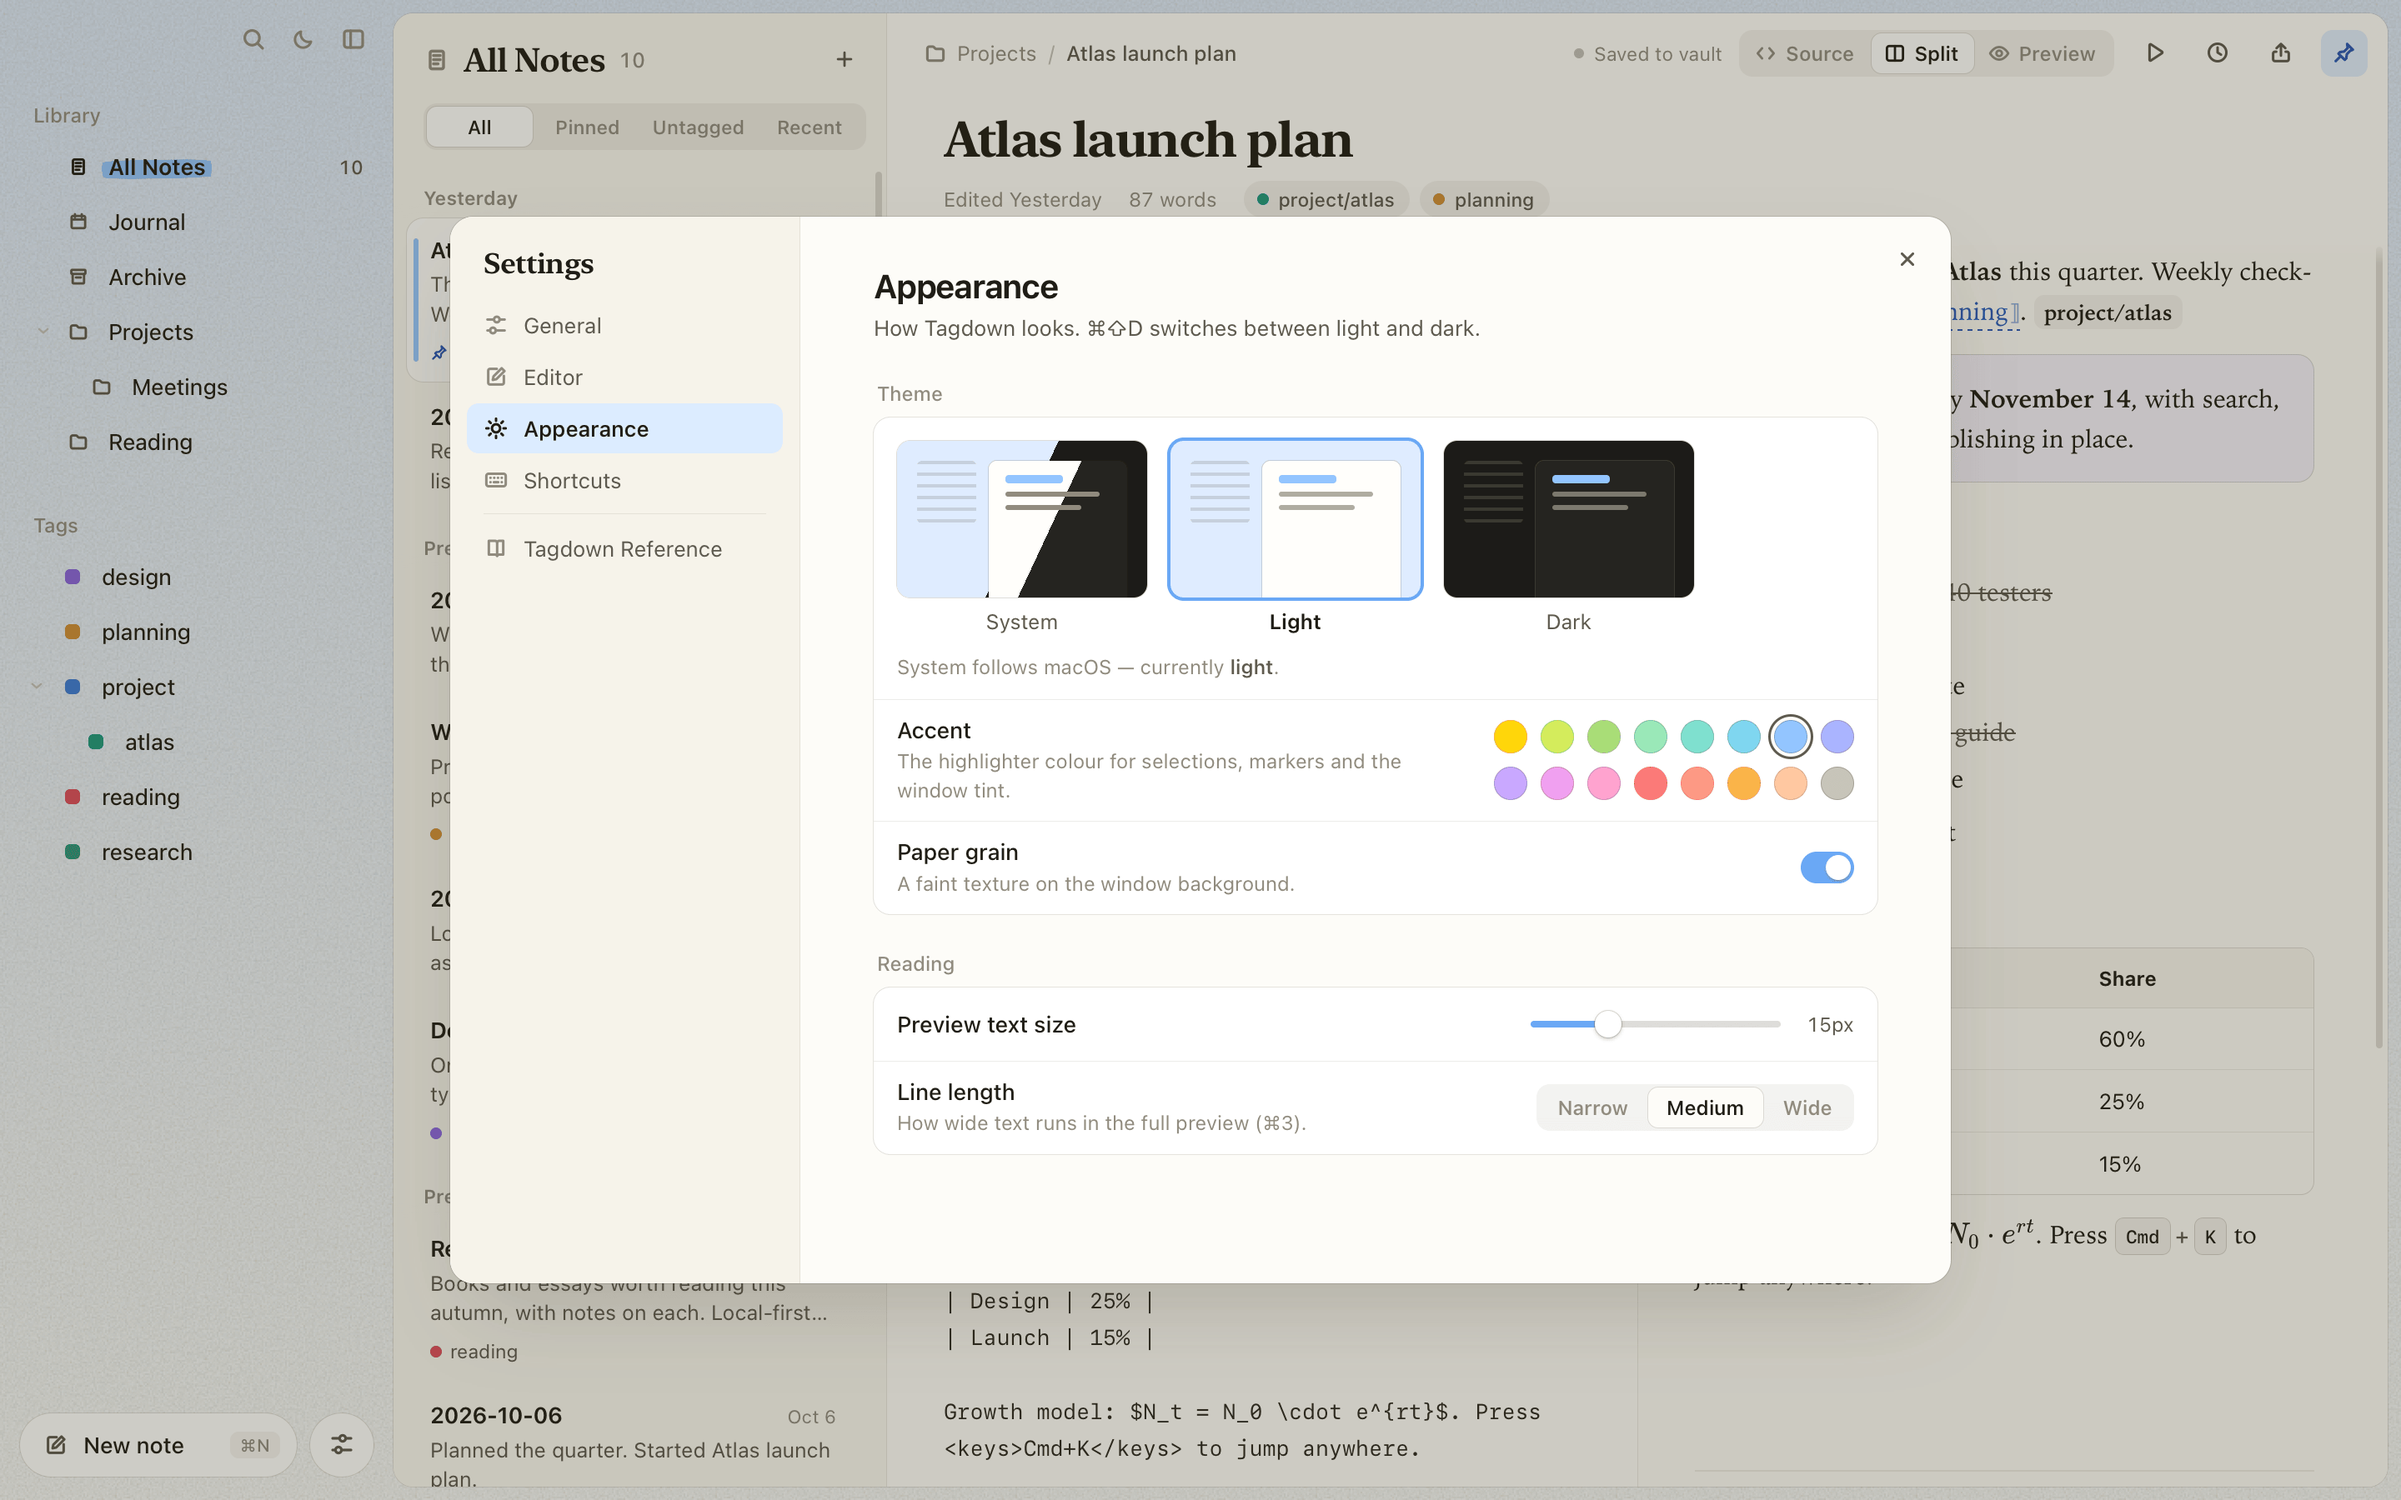
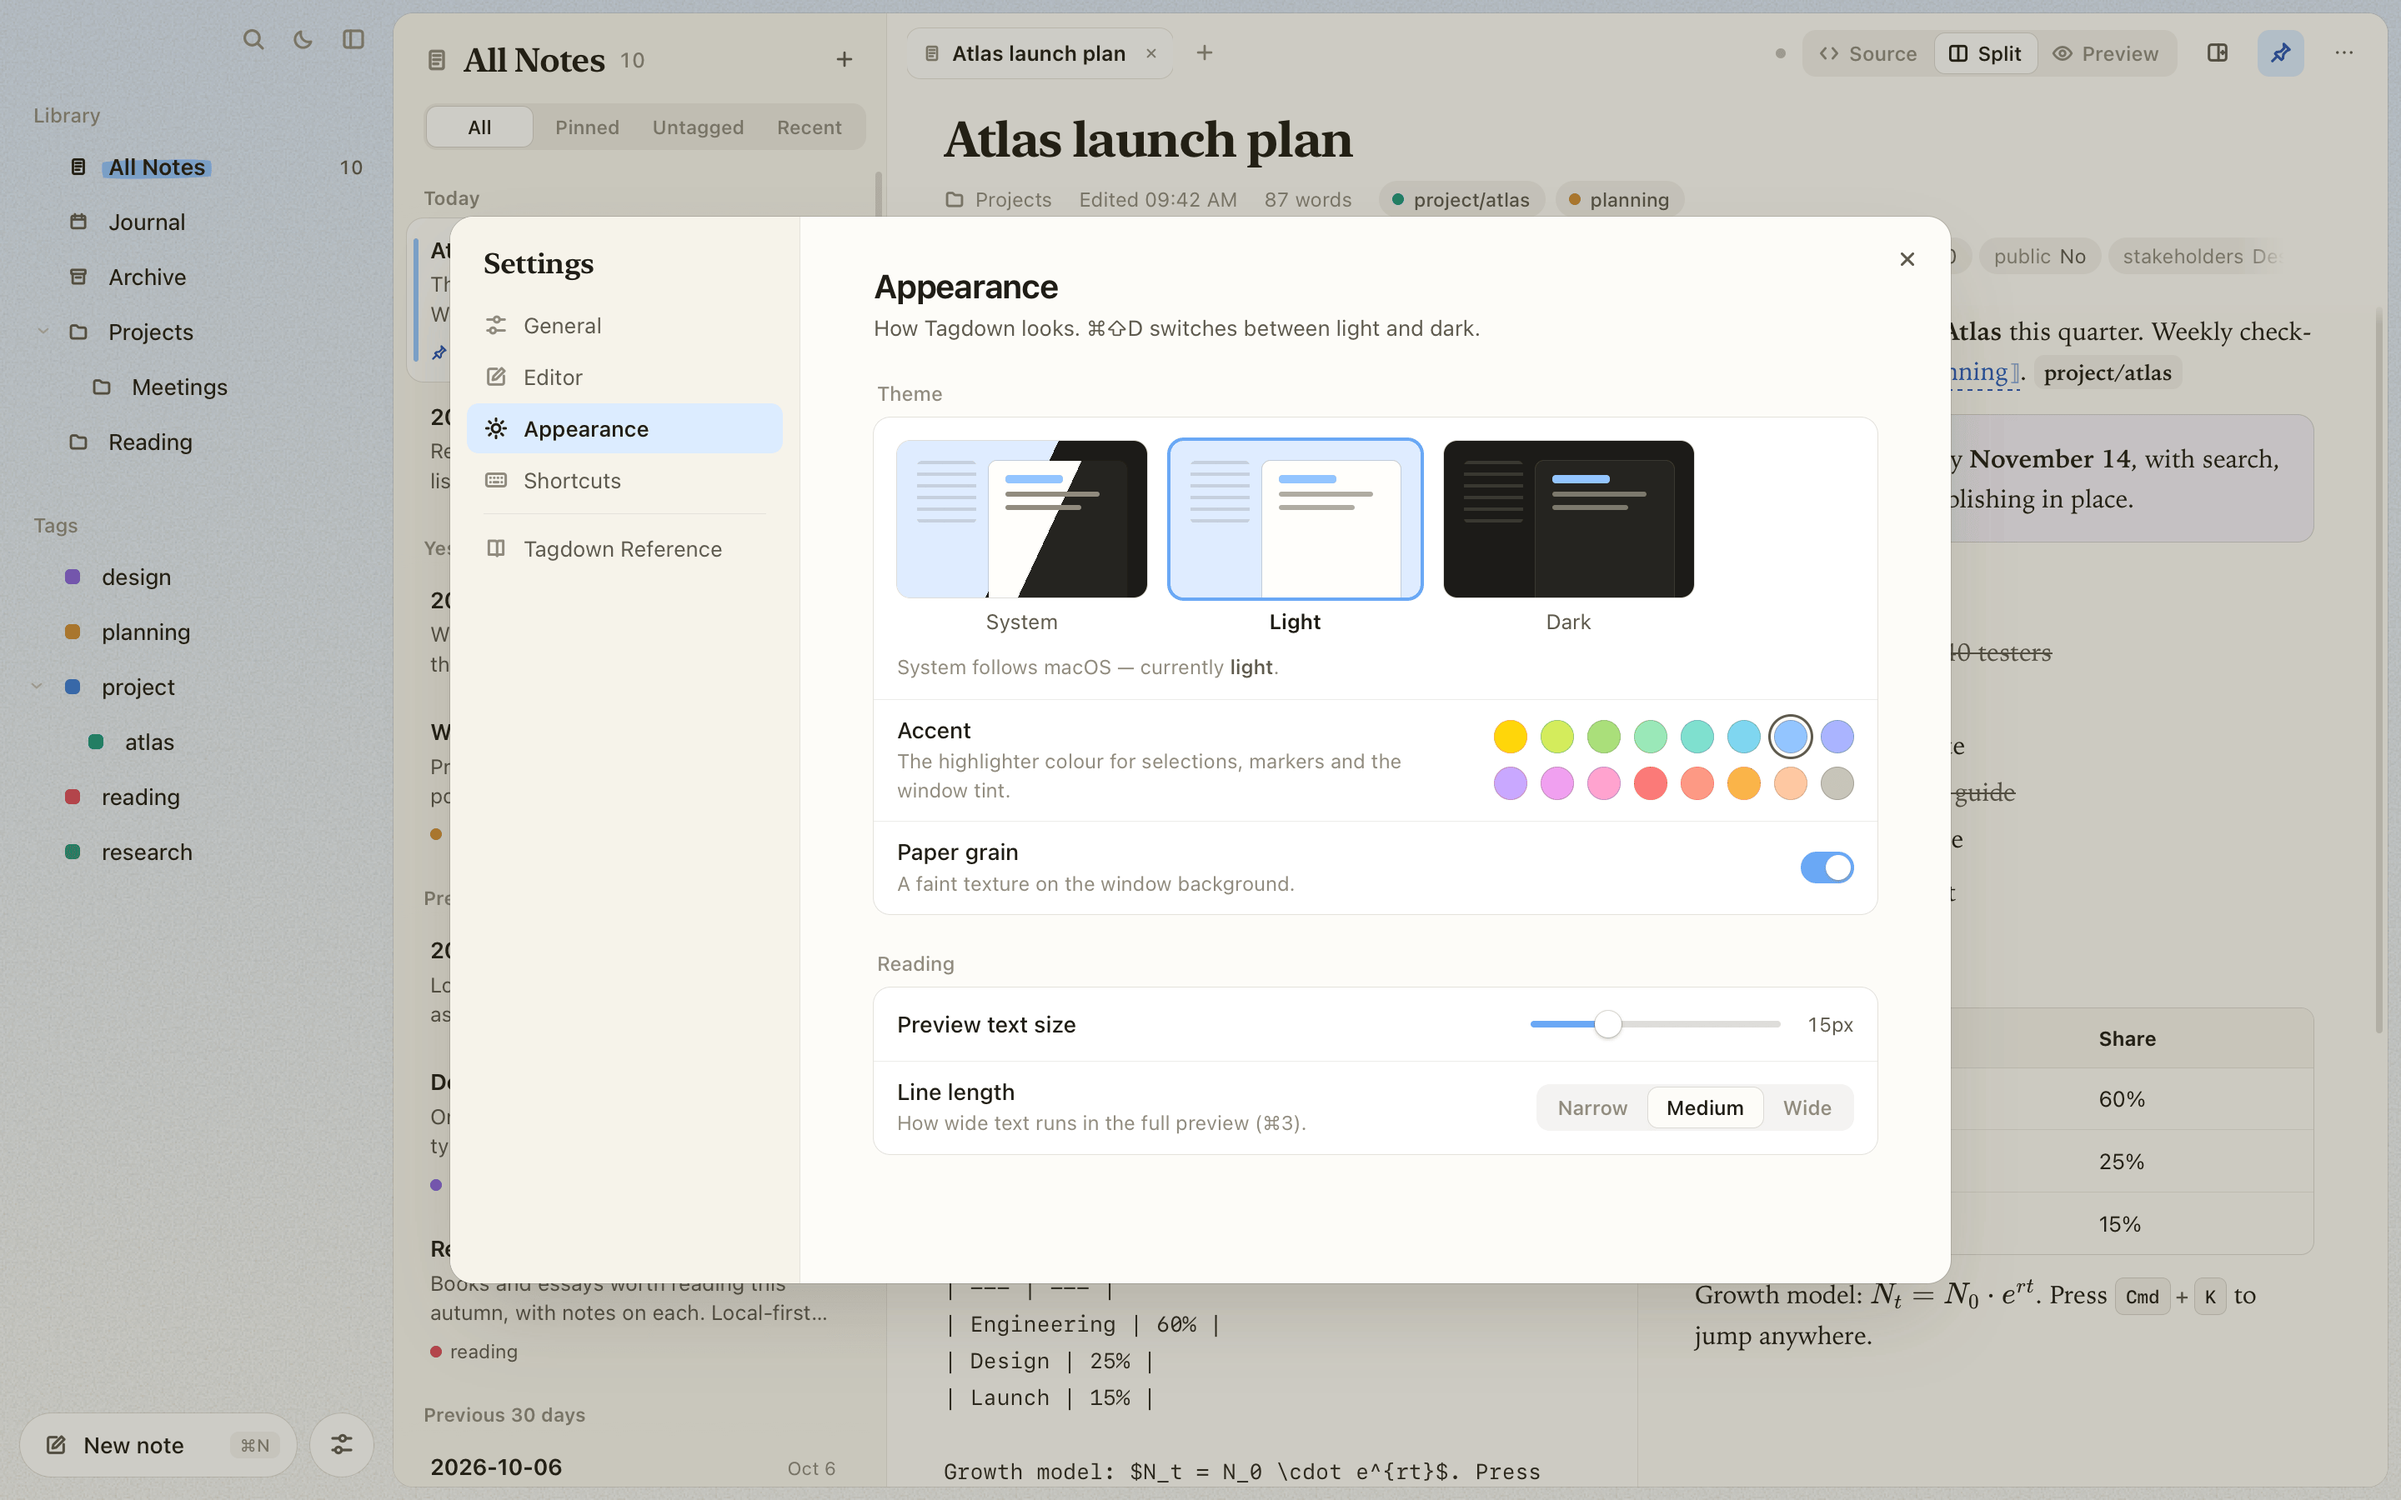
docs: tabs, panes and properties, with fresh screenshots
- New light/dark shots of two panes side by side and of the properties
  panel; the editor, journal, settings and appearance shots are retaken
  with the tab bar.
- README and Writing notes cover tabs, panes, folding and hiding
  properties, and the new launch and editor settings.
- The top bar gives tabs room first: below 1000px slides and history move
  to the ⋯ menu and the save status keeps only its dot.
- The window title no longer follows a pane drawn in the background.

diff --git a/src/main.ts b/src/main.ts
@@ -902,6 +902,8 @@ async function displayTab(pane: Pane, fresh?: Note) {
   }
   if (!panes.includes(pane) || pane.tabs[pane.active] !== tab) return;
   if (!note) Object.assign(tab, blankTab());
+  // Inside withPane the swapped-in pane is always the "active" one; ask before.
+  const isActive = pane === activePane;
   withPane(pane, () => {
     selectedNote = note;
     content = text;
@@ -910,7 +912,7 @@ async function displayTab(pane: Pane, fresh?: Note) {
       tab.title = tabTitleOf(note);
       if (!linkSyncs.has(note.id)) linkTitles.set(note.id, note.title);
     }
-    if (pane === activePane) {
+    if (isActive) {
       setDocumentTitle(note ? note.title || 'Untitled' : 'Tagdown Editor');
       if (note) setPreference('lastNoteId', note.id);
     }
@@ -918,7 +920,7 @@ async function displayTab(pane: Pane, fresh?: Note) {
     restoreScroll(pane, tab);
     if (note) void loadBacklinks(note.id);
   });
-  if (pane === activePane) renderNotes();
+  if (isActive) renderNotes();
   saveWorkspace();
 }
 
@@ -3210,12 +3212,13 @@ async function flushSave() {
     });
   }
   if (panes.includes(pane)) {
+    const isActive = pane === activePane;
     withPane(pane, () => {
       if (selectedNote?.id !== id) return;
       selectedNote = saved;
       // More typing since this save started: that save is still to come.
       if (saveTimer === undefined) savedMessage = 'Saved';
-      if (pane === activePane) setDocumentTitle(saved.title || 'Untitled');
+      if (isActive) setDocumentTitle(saved.title || 'Untitled');
       // Journal pages are headed by their day, whatever their title says.
       if (!saved.journal) {
         const titleText = saved.title || 'Untitled';
@@ -3392,6 +3395,7 @@ function renderStatus() {
   const state = savedMessage === 'Saving…' ? 'saving' : savedMessage === 'Ready' ? 'idle' : 'saved';
   const shown = notice && Date.now() < notice.until ? notice.text : state === 'idle' ? 'Saved to vault' : savedMessage;
   savedEl.className = `save-state is-${state}`;
+  savedEl.title = shown;
   savedEl.innerHTML = `<i aria-hidden="true"></i><span>${escapeHtml(shown)}</span>`;
 }
 

diff --git a/src/styles/workspace.css b/src/styles/workspace.css
@@ -64,7 +64,7 @@ body.is-resizing-panes iframe { pointer-events: none; }
 .tab {
   position: relative;
   flex: 0 1 190px;
-  min-width: 76px;
+  min-width: 96px;
   height: 30px;
   display: flex;
   align-items: center;
@@ -163,9 +163,12 @@ body.is-resizing-panes iframe { pointer-events: none; }
 .export-menu hr, .context-menu hr { margin: 5px 6px; border: 0; border-top: .5px solid var(--line); }
 .export-menu button[hidden] { display: none; }
 .export-menu [data-export="present"], .export-menu [data-export="history"] { display: none; }
-@container (max-width: 700px) {
+/* Tabs come first: with a few open, slides and history move to the ⋯ menu
+   and the save status keeps only its dot (its text is in the tooltip). */
+@container (max-width: 1000px) {
   .topbar-extra { display: none; }
   .export-menu [data-export="present"], .export-menu [data-export="history"] { display: flex; }
+  .editor-topbar .save-state span { display: none; }
 }
 @container (max-width: 480px) {
   .topbar-split { display: none; }

diff --git a/docs/writing-notes.md b/docs/writing-notes.md
@@ -26,11 +26,21 @@ Drag a tab to reorder it, onto another pane's tabs to move it there, or to the e
 
 Notes open in a tab somewhere have a small dot in the note list. Tagdown remembers your tabs and panes per vault and reopens them on launch (**Settings → General → On launch**).
 
+<picture>
+  <source media="(prefers-color-scheme: dark)" srcset="images/panes-dark.png" />
+  <img width="1440" alt="Focus mode with two panes side by side, each with two tabs: the Atlas launch plan with its properties folded to one line, and Weekly planning with its linked mentions" src="images/panes-light.png" />
+</picture>
+
 ## Properties
 
 A note's properties (its frontmatter fields) sit under the title. When a note has more than three, they fold to one line of chips; click **Properties** (or press **⌘⇧I**) to open or fold them, and each note remembers your choice. Click a chip to jump straight to editing that value. **Settings → Editor → Fold properties** sets when they start folded: always, never, or when there are more than three.
 
 Fields you rarely look at, such as an `id` or a sync timestamp, can be hidden in every note: hover the row and click the eye. **Show hidden** under the list brings them back for a moment; unhide them for good from the row, or in **Settings → Editor → Hidden properties**. Hiding only changes the view; the field stays in the file.
+
+<picture>
+  <source media="(prefers-color-scheme: dark)" srcset="images/properties-dark.png" />
+  <img width="1440" alt="The Atlas launch plan with its properties open: status, owner as a link, a due date, a budget number, a public checkbox and a list of stakeholders, with Add property and Show 1 hidden underneath" src="images/properties-light.png" />
+</picture>
 
 ## Titles
 
@@ -100,8 +110,8 @@ The **Accent** row picks the highlighter colour the whole app is tinted with, fr
   <img width="1440" alt="Tagdown Settings, General page" src="images/settings-light.png" />
 </picture>
 
-- **General.** What opens on launch (the last note, today's journal page, or the most recent note), which view a note starts in or whether to remember the last one, whether archiving a note asks first, and where your vault lives, with **Reveal in Finder**. Deleting a note for good always asks.
-- **Editor.** Spellcheck, the size of the source text, and **Headings move their section**, on by default, which decides whether dragging a heading takes the content under it along.
+- **General.** What opens on launch (the tabs and panes you had open, today's journal page, or the most recent note), which view a note starts in or whether to remember the last one, whether archiving a note asks first, and where your vault lives, with **Reveal in Finder**. Deleting a note for good always asks.
+- **Editor.** Spellcheck, the size of the source text, when properties start folded, the properties hidden in every note, and **Headings move their section**, on by default, which decides whether dragging a heading takes the content under it along.
 - **Appearance.** Theme, accent colour, paper grain, preview text size, and line length.
 - **Shortcuts.** Every keyboard shortcut, also listed in [Keyboard shortcuts](keyboard-shortcuts.md).
 

diff --git a/README.md b/README.md
@@ -18,7 +18,7 @@ Tagdown Editor is a macOS-focused Tauri app for writing structured notes without
 <picture>
   <source media="(prefers-color-scheme: dark)" srcset="docs/images/tagdown-editor-dark.png" />
   <source media="(prefers-color-scheme: light)" srcset="docs/images/tagdown-editor-light.png" />
-  <img width="1440" alt="Tagdown Editor in split view: the sidebar with All Notes, the Journal, library folders and a tag tree, a note list grouped by date, and a launch-plan note shown as Tagdown source beside its rendered preview with a callout, task list, table, and math" src="docs/images/tagdown-editor-light.png" />
+  <img width="1440" alt="Tagdown Editor in split view: the sidebar with All Notes, the Journal, library folders and a tag tree, a note list grouped by date, and three notes open as tabs, with the launch plan's properties folded to one line of chips above its Tagdown source and rendered preview with a callout, task list, table, and math" src="docs/images/tagdown-editor-light.png" />
 </picture>
 
 <details>
@@ -58,6 +58,8 @@ See the [syntax guide](docs/syntax.md) for everything Tagdown adds.
 
 ### Writing
 
+- **Tabs and side-by-side panes**: ⌘-click any note or link for a new tab, ⌥⌘-click (or drag it to the edge) to see two notes side by side. Tabs and panes are remembered per vault.
+- **Properties that stay out of the way**: frontmatter fields as typed inputs that fold to one line of chips (⌘⇧I), and fields like `id` can be hidden in every note.
 - **Source, split, and preview modes** (⌘1 / ⌘2 / ⌘3), and **edit in place** by clicking any block in the preview.
 - **Slash commands**: type `/` to turn a line into a heading, list, or task, or to insert any component, a note link, or a date.
 - **Outliner lists**: ↩ continues bullets, numbers, and tasks; Tab and ⇧Tab nest and un-nest items with their children.
@@ -66,6 +68,11 @@ See the [syntax guide](docs/syntax.md) for everything Tagdown adds.
 - **Command palette** (⌘K) to jump to any note, search, or run any action.
 - **Focus mode** (⌘\\) hides everything but the note.
 - **Light and dark themes** (⌘⇧D), or follow the system, with sixteen **accent colours** to tint the app and an optional paper grain.
+
+<picture>
+  <source media="(prefers-color-scheme: dark)" srcset="docs/images/panes-dark.png" />
+  <img width="1440" alt="Focus mode with two panes side by side: the Atlas launch plan with its properties folded to a line of chips, and Weekly planning with its linked mentions, each pane with its own tabs" src="docs/images/panes-light.png" />
+</picture>
 
 ### Organizing
 

diff --git a/docs/README.md b/docs/README.md
@@ -4,7 +4,7 @@ Everything about using Tagdown Editor, from your first note to publishing a webs
 
 <picture>
   <source media="(prefers-color-scheme: dark)" srcset="images/tagdown-editor-dark.png" />
-  <img width="1440" alt="Tagdown Editor in split view" src="images/tagdown-editor-light.png" />
+  <img width="1440" alt="Tagdown Editor in split view, with three notes open as tabs and the launch plan's properties folded to one line" src="images/tagdown-editor-light.png" />
 </picture>
 
 ## Guides
@@ -12,7 +12,7 @@ Everything about using Tagdown Editor, from your first note to publishing a webs
 | Guide | What's in it |
 | --- | --- |
 | [Getting started](getting-started.md) | Download or build the app; what happens on first launch |
-| [Writing notes](writing-notes.md) | The workspace, view modes, editing and reordering blocks in the preview, the `/` command menu, lists and outlines, the toolbar, themes and accents |
+| [Writing notes](writing-notes.md) | The workspace, tabs and panes, properties, view modes, editing and reordering blocks in the preview, the `/` command menu, lists and outlines, the toolbar, themes and accents |
 | [Tagdown syntax](syntax.md) | Markdown plus callouts, tabs, grids, math, diagrams, and more |
 | [Organizing your vault](organizing.md) | Where notes live, several vaults, folders, tags, pinning, the archive, search, and wikilinks |
 | [Journal](journal.md) | A page for every day, date links, and a template for new days |
